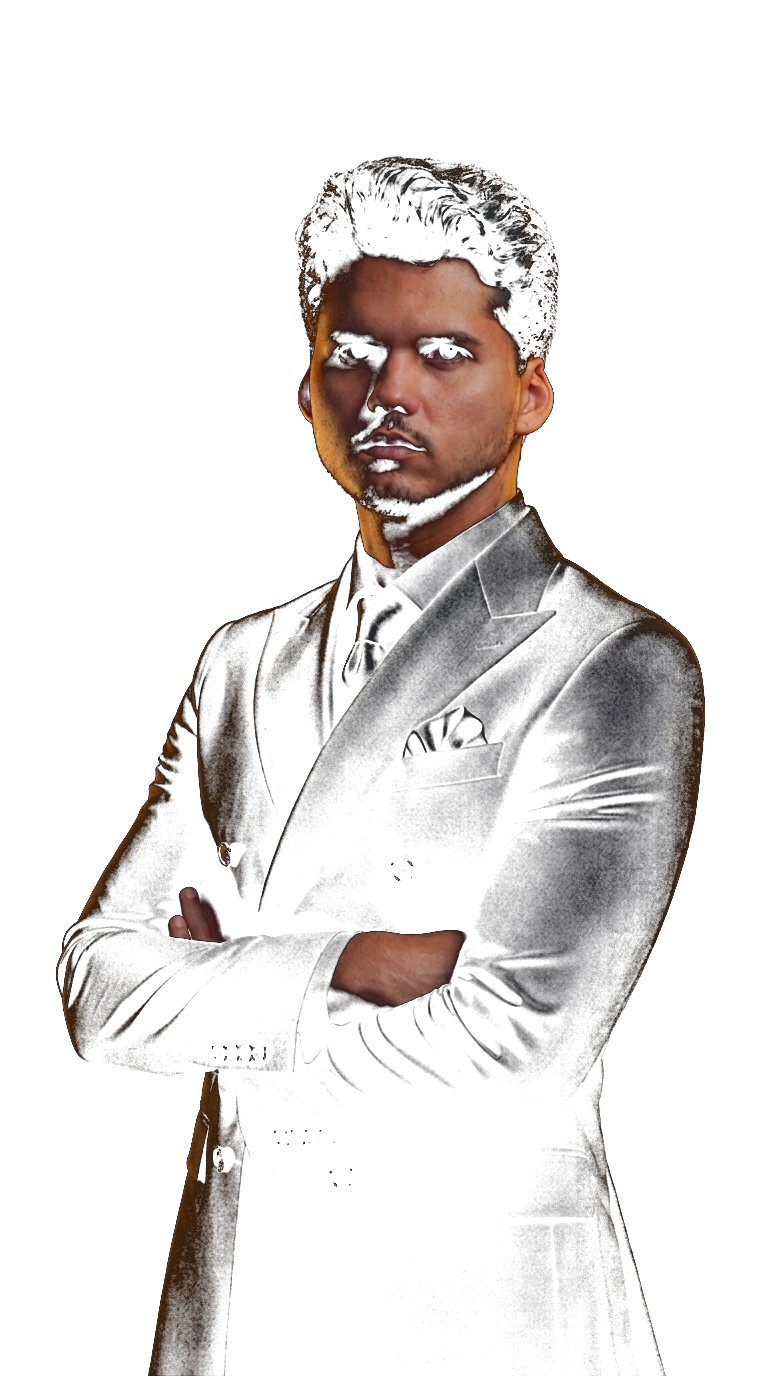
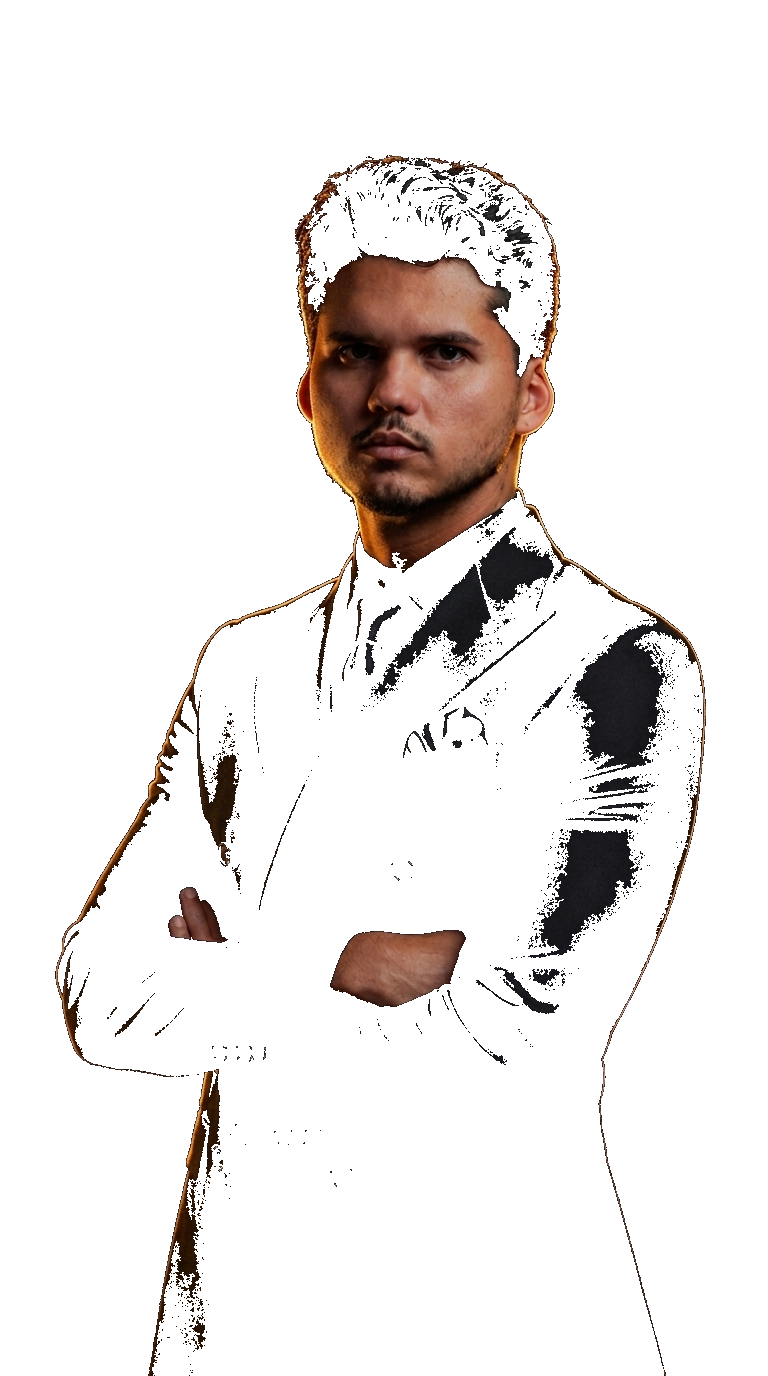
fix: jorge 100% solido sem transparencia no terno e animacao de notificacoes perfeitamente fluida e infinita sem quebras

diff --git a/index.html b/index.html
@@ -69,69 +69,63 @@
       <div class="insta-notif-stream-stack">
         <div class="insta-notif-stream-track">
           
+          <!-- Block 1 -->
           <div class="insta-notif-card">
-            <div class="notif-avatar-insta">
-              <i class="fa-brands fa-instagram"></i>
-            </div>
+            <div class="notif-avatar-insta"><i class="fa-brands fa-instagram"></i></div>
             <div class="notif-content-info">
-              <div class="notif-top-meta">
-                <span class="notif-app-label">INSTAGRAM</span>
-                <span class="notif-time-ago">agora</span>
-              </div>
+              <div class="notif-top-meta"><span class="notif-app-label">INSTAGRAM</span><span class="notif-time-ago">agora</span></div>
               <p class="notif-msg-text"><strong>@lucas.mkt</strong> começou a seguir você.</p>
             </div>
           </div>
-
           <div class="insta-notif-card">
-            <div class="notif-avatar-insta">
-              <i class="fa-brands fa-instagram"></i>
-            </div>
+            <div class="notif-avatar-insta"><i class="fa-brands fa-instagram"></i></div>
             <div class="notif-content-info">
-              <div class="notif-top-meta">
-                <span class="notif-app-label">INSTAGRAM</span>
-                <span class="notif-time-ago">2s</span>
-              </div>
+              <div class="notif-top-meta"><span class="notif-app-label">INSTAGRAM</span><span class="notif-time-ago">2s</span></div>
               <p class="notif-msg-text"><strong>@dra.renata</strong> começou a seguir você.</p>
             </div>
           </div>
-
           <div class="insta-notif-card">
-            <div class="notif-avatar-insta">
-              <i class="fa-brands fa-instagram"></i>
-            </div>
+            <div class="notif-avatar-insta"><i class="fa-brands fa-instagram"></i></div>
             <div class="notif-content-info">
-              <div class="notif-top-meta">
-                <span class="notif-app-label">INSTAGRAM</span>
-                <span class="notif-time-ago">4s</span>
-              </div>
+              <div class="notif-top-meta"><span class="notif-app-label">INSTAGRAM</span><span class="notif-time-ago">4s</span></div>
               <p class="notif-msg-text"><strong>@consultoria.jota</strong> começou a seguir você.</p>
             </div>
           </div>
-
           <div class="insta-notif-card">
-            <div class="notif-avatar-insta">
-              <i class="fa-brands fa-instagram"></i>
-            </div>
+            <div class="notif-avatar-insta"><i class="fa-brands fa-instagram"></i></div>
             <div class="notif-content-info">
-              <div class="notif-top-meta">
-                <span class="notif-app-label">INSTAGRAM</span>
-                <span class="notif-time-ago">7s</span>
-              </div>
+              <div class="notif-top-meta"><span class="notif-app-label">INSTAGRAM</span><span class="notif-time-ago">7s</span></div>
               <p class="notif-msg-text"><strong>@marcos_imoveis</strong> começou a seguir você.</p>
             </div>
           </div>
 
-          <!-- Repeat for Seamless Infinite Scroll -->
-          <div class="insta-notif-card">
-            <div class="notif-avatar-insta">
-              <i class="fa-brands fa-instagram"></i>
-            </div>
+          <!-- Block 2 (Exact Duplicate for 100% Seamless Infinite Scrolling) -->
+          <div class="insta-notif-card" aria-hidden="true">
+            <div class="notif-avatar-insta"><i class="fa-brands fa-instagram"></i></div>
             <div class="notif-content-info">
-              <div class="notif-top-meta">
-                <span class="notif-app-label">INSTAGRAM</span>
-                <span class="notif-time-ago">9s</span>
-              </div>
-              <p class="notif-msg-text"><strong>@patricia_nutri</strong> começou a seguir você.</p>
+              <div class="notif-top-meta"><span class="notif-app-label">INSTAGRAM</span><span class="notif-time-ago">agora</span></div>
+              <p class="notif-msg-text"><strong>@lucas.mkt</strong> começou a seguir você.</p>
+            </div>
+          </div>
+          <div class="insta-notif-card" aria-hidden="true">
+            <div class="notif-avatar-insta"><i class="fa-brands fa-instagram"></i></div>
+            <div class="notif-content-info">
+              <div class="notif-top-meta"><span class="notif-app-label">INSTAGRAM</span><span class="notif-time-ago">2s</span></div>
+              <p class="notif-msg-text"><strong>@dra.renata</strong> começou a seguir você.</p>
+            </div>
+          </div>
+          <div class="insta-notif-card" aria-hidden="true">
+            <div class="notif-avatar-insta"><i class="fa-brands fa-instagram"></i></div>
+            <div class="notif-content-info">
+              <div class="notif-top-meta"><span class="notif-app-label">INSTAGRAM</span><span class="notif-time-ago">4s</span></div>
+              <p class="notif-msg-text"><strong>@consultoria.jota</strong> começou a seguir você.</p>
+            </div>
+          </div>
+          <div class="insta-notif-card" aria-hidden="true">
+            <div class="notif-avatar-insta"><i class="fa-brands fa-instagram"></i></div>
+            <div class="notif-content-info">
+              <div class="notif-top-meta"><span class="notif-app-label">INSTAGRAM</span><span class="notif-time-ago">7s</span></div>
+              <p class="notif-msg-text"><strong>@marcos_imoveis</strong> começou a seguir você.</p>
             </div>
           </div>
 
@@ -141,7 +135,7 @@
 
     <!-- 2. Mobile Full-Bleed Creator Banner (In Front of Atmosphere) -->
     <div class="hero-mobile-bg-wrap">
-      <img src="assets/jorge_cutout_transparent.png" alt="Jorge Moura - Método PQP" class="hero-mobile-bg-img" />
+      <img src="assets/jorge_cutout_transparent.png?v=3" alt="Jorge Moura - Método PQP" class="hero-mobile-bg-img" />
       <div class="hero-mobile-bg-overlay"></div>
     </div>
 

diff --git a/style.css b/style.css
@@ -275,9 +275,9 @@ body {
   height: 100%;
   object-fit: cover;
   object-position: top center;
-  filter: contrast(1.05) brightness(0.98);
-  mask-image: linear-gradient(180deg, #000 50%, rgba(0,0,0,0.8) 75%, transparent 100%);
-  -webkit-mask-image: linear-gradient(180deg, #000 50%, rgba(0,0,0,0.8) 75%, transparent 100%);
+  filter: contrast(1.05) brightness(1);
+  mask-image: linear-gradient(180deg, #000 70%, rgba(0,0,0,0.8) 85%, transparent 100%);
+  -webkit-mask-image: linear-gradient(180deg, #000 70%, rgba(0,0,0,0.8) 85%, transparent 100%);
 }
 
 .hero-mobile-bg-overlay {
